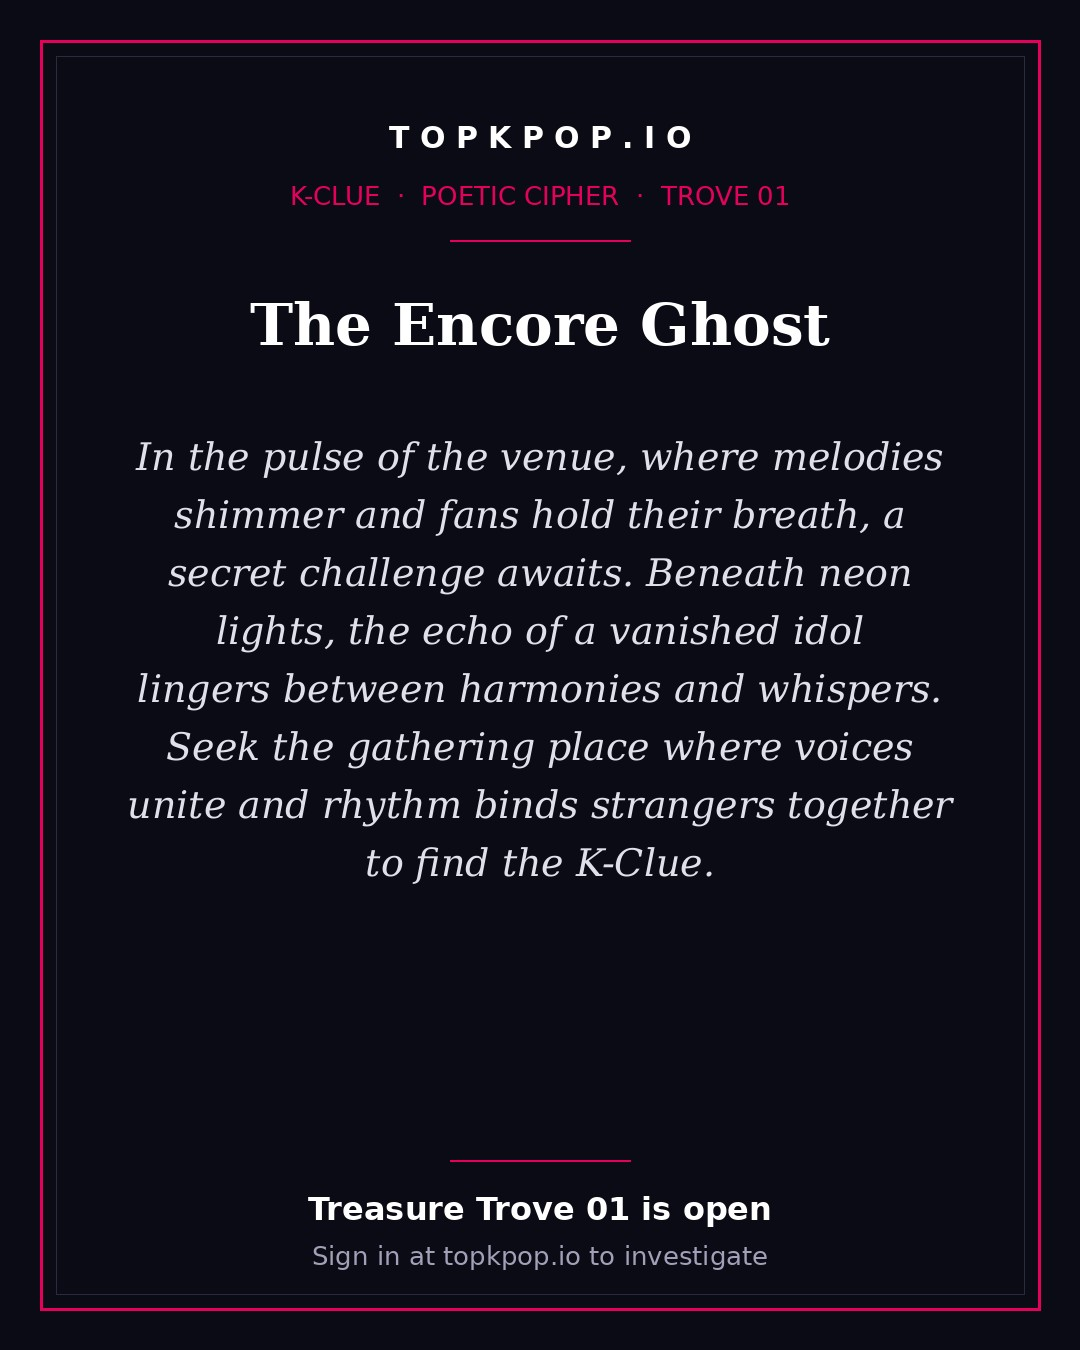
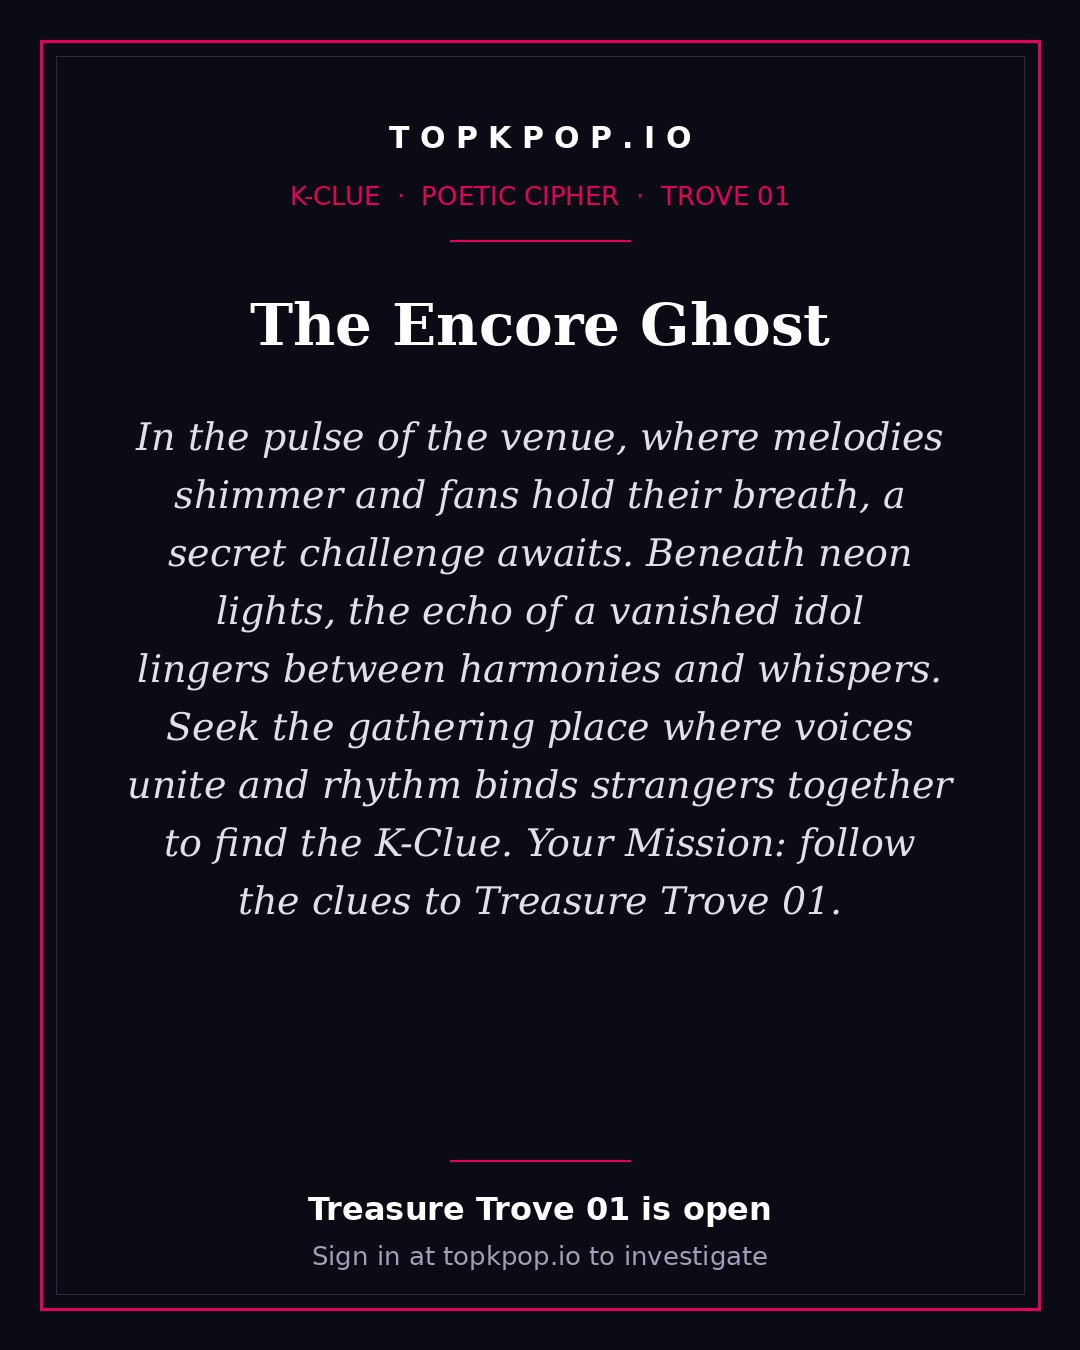
Instagram clue posts: tester fixes (admin page script restored, unlock flag saved before posting, no double posts, truthful by-hand notice, clue cards closed until their Trove opens, token scrubbed, stricter inputs, card 01 matches the page)
Claude-Session: https://claude.ai/code/session_01RZJqaW5LpgZaP57mDXHC8f

Changed region(s): [[0.1222, 0.3111, 0.8861, 0.6844]]

diff --git a/api/instagram.js b/api/instagram.js
@@ -22,18 +22,29 @@ const CLUES = {
   3: { title: 'Where Secret Scorn Smolders', line: 'Someone long dismissed left only a shadow. The final cipher is out.' },
 };
 
+const env = (k) => String(process.env[k] || '').trim();
 function configured() {
-  return !!(process.env.INSTAGRAM_ACCOUNT_ID && process.env.INSTAGRAM_ACCESS_TOKEN);
+  return !PREVIEW_MODE && !!(env('INSTAGRAM_ACCOUNT_ID') && env('INSTAGRAM_ACCESS_TOKEN'));
+}
+/** Take the token out of anything that might be logged, emailed or returned. */
+function scrub(text) {
+  const tok = env('INSTAGRAM_ACCESS_TOKEN');
+  let out = String(text == null ? '' : text).replace(/access_token=[^&\s]+/g, 'access_token=…');
+  if (tok) out = out.split(tok).join('…');
+  return out;
 }
 
 /** What would be posted for a Trove: the media link, whether it is a video, and the caption. */
 function clueFor(trove) {
   const n = Number(trove); const c = CLUES[n]; if (!c) return null;
-  const override = String(process.env[`INSTAGRAM_TROVE${n}_MEDIA`] || '').trim();
-  const media = /^https:\/\/\S+$/i.test(override) ? override : `${SITE}/assets/instagram/trove-0${n}.jpg`;
+  // An override must be a public https link to a .jpg or an .mp4/.mov; anything else is ignored and the card is used.
+  const override = env(`INSTAGRAM_TROVE${n}_MEDIA`);
+  const usable = /^https:\/\/[^\s#]+\.(jpe?g|mp4|mov)(\?[^\s#]*)?$/i.test(override);
+  if (override && !usable) console.warn(`instagram: INSTAGRAM_TROVE${n}_MEDIA is not an https link to a .jpg, .mp4 or .mov, so the clue card is used.`);
+  const media = usable ? override : `${SITE}/assets/instagram/trove-0${n}.jpg`;
   const video = /\.(mp4|mov)(\?|$)/i.test(media);
   const caption = [
-    `K-CLUE · Treasure Trove 0${n} is open.`,
+    firstLine(n),
     `"${c.title}" — ${c.line}`,
     `Every clue is also on the website. Sign in at topkpop.io to investigate.`,
     `#TopKpop #AISuperSleuth #KClue`,
@@ -41,14 +52,16 @@ function clueFor(trove) {
   return { trove: n, media, video, caption };
 }
 
+const firstLine = (n) => `K-CLUE · Treasure Trove 0${n} is open.`;
+
 function address(path) {
-  const host = (process.env.INSTAGRAM_API_HOST || 'graph.instagram.com').replace(/^https?:\/\//, '').replace(/\/+$/, '');
-  const v = (process.env.INSTAGRAM_API_VERSION || '').replace(/^\/+|\/+$/g, '');
+  const host = (env('INSTAGRAM_API_HOST') || 'graph.instagram.com').replace(/^https?:\/\//i, '').replace(/\/+$/, '');
+  const v = env('INSTAGRAM_API_VERSION').replace(/^\/+|\/+$/g, '');
   return `https://${host}/${v ? v + '/' : ''}${path}`;
 }
 
 async function call(method, path, params) {
-  const body = new URLSearchParams({ ...params, access_token: process.env.INSTAGRAM_ACCESS_TOKEN });
+  const body = new URLSearchParams({ ...params, access_token: env('INSTAGRAM_ACCESS_TOKEN') });
   const url = address(path);
   const ctl = new AbortController(); const timer = setTimeout(() => ctl.abort(), 30000);
   try {
@@ -57,19 +70,26 @@ async function call(method, path, params) {
       : await fetch(url, { method: 'POST', body, signal: ctl.signal });
     const data = await res.json().catch(() => ({}));
     if (!res.ok || data.error) {
-      // Never let the token reach a log or an email.
-      const msg = String((data.error && data.error.message) || `Instagram answered ${res.status}`).replace(/access_token=[^&\s]+/g, 'access_token=…');
-      throw new Error(msg);
+      throw new Error(scrub((data.error && data.error.message) || `Instagram answered ${res.status}`));
     }
     return data;
+  } catch (e) {
+    // Never let the token reach a log, an email or a reply, whatever the error was.
+    throw new Error(scrub(e && e.name === 'AbortError' ? 'Instagram did not answer in time' : (e && e.message) || 'Instagram could not be reached'));
   } finally { clearTimeout(timer); }
 }
 
 const wait = (ms) => new Promise((r) => setTimeout(r, ms));
 
+/** Is this Trove's clue already on the account? Looks at the newest posts for the caption's first line. */
+async function alreadyPosted(trove) {
+  const got = await call('GET', `${env('INSTAGRAM_ACCOUNT_ID')}/media`, { fields: 'caption', limit: '25' });
+  return (got.data || []).some((m) => String(m.caption || '').startsWith(firstLine(trove)));
+}
+
 /** Create the post, wait until Instagram has finished reading the media, then publish. Returns the media id. */
 async function publish({ media, video, caption }, { pollMs = 15000, maxPolls = 20 } = {}) {
-  const id = process.env.INSTAGRAM_ACCOUNT_ID;
+  const id = env('INSTAGRAM_ACCOUNT_ID');
   const made = await call('POST', `${id}/media`, video ? { media_type: 'REELS', video_url: media, caption } : { image_url: media, caption });
   if (!made.id) throw new Error('Instagram did not return a post to publish');
   for (let i = 0; i < maxPolls; i++) {
@@ -84,11 +104,15 @@ async function publish({ media, video, caption }, { pollMs = 15000, maxPolls = 2
   return out.id;
 }
 
+// One post per Trove at a time in this process, so two clicks or a click during the job cannot both publish.
+const busy = new Set();
+
 const esc = (s) => String(s == null ? '' : s).replace(/[&<>"']/g, (c) => ({ '&': '&amp;', '<': '&lt;', '>': '&gt;', '"': '&quot;', "'": '&#39;' }[c]));
 
 /**
  * Post a Trove's clue. Never throws: the caller is the unlock job, and a failed post must not stop the emails.
- * notify({ subject, html }) emails the organizer. Returns { posted, by_hand, reason, id }.
+ * notify({ subject, html }) emails the organizer and returns true only if the email was really sent.
+ * Returns { posted, already, by_hand, reason, id }.
  */
 async function postClue(trove, { notify, opts } = {}) {
   const clue = clueFor(trove);
@@ -97,28 +121,34 @@ async function postClue(trove, { notify, opts } = {}) {
   const tell = async (why) => {
     if (!notify) return false;
     try {
-      await notify({
+      return (await notify({
         subject: `Post by hand: Trove 0${clue.trove} clue for Instagram`,
         html: `<p>Trove 0${clue.trove} is open. ${esc(why)}</p>
 <p><strong>${clue.video ? 'Video' : 'Picture'}:</strong> <a href="${esc(clue.media)}">${esc(clue.media)}</a></p>
-<p><strong>Caption:</strong></p><pre style="white-space:pre-wrap;font-family:inherit">${esc(clue.caption)}</pre>`,
-      });
-      return true;
+<p><strong>Caption:</strong></p><pre style="white-space:pre-wrap;font-family:inherit">${esc(clue.caption)}</pre>
+<p>If it is already on @topkpopio, there is nothing to do.</p>`,
+      })) === true;
     } catch (e) { console.error('instagram notify error:', e.message); return false; }
   };
   if (!configured()) {
     const by_hand = await tell('Instagram is not connected to the site yet, so this one is yours to post.');
     return { posted: false, by_hand, reason: 'Instagram is not connected yet' };
   }
+  if (busy.has(clue.trove)) return { posted: false, reason: 'this clue is being posted right now' };
+  busy.add(clue.trove);
   try {
+    if (await alreadyPosted(clue.trove)) return { posted: true, already: true };
     const id = await publish(clue, opts);
     console.log(`Instagram: Trove ${clue.trove} clue posted (${id}).`);
     return { posted: true, id };
   } catch (e) {
-    console.error(`Instagram: Trove ${clue.trove} clue failed:`, e.message);
-    const by_hand = await tell(`The site tried to post this to Instagram and it did not go through (${e.message}).`);
-    return { posted: false, by_hand, reason: e.message };
-  }
+    const why = scrub(e.message);
+    // A lost reply does not mean a lost post: look once more before asking anyone to post by hand.
+    try { if (await alreadyPosted(clue.trove)) return { posted: true, already: true }; } catch (_) { /* fall through to the notice */ }
+    console.error(`Instagram: Trove ${clue.trove} clue failed:`, why);
+    const by_hand = await tell(`The site tried to post this to Instagram and it did not go through (${why}). Please check @topkpopio first in case it did arrive.`);
+    return { posted: false, by_hand, reason: why };
+  } finally { busy.delete(clue.trove); }
 }
 
-module.exports = { configured, clueFor, postClue, _internal: { publish, address } };
+module.exports = { configured, clueFor, postClue, _internal: { publish, address, alreadyPosted, scrub } };

diff --git a/api/routes.js b/api/routes.js
@@ -1431,8 +1431,10 @@ async function sendWeeklyScoreSummary() {
 const instagram = require('./instagram');
 async function instagramNotify({ subject, html }) {
   const to = process.env.EVALROOM_ORGANIZER_EMAIL || process.env.ADMIN_EMAIL;
-  if (!to) return;
-  await resend.emails.send({ from: 'TopKpop.io System <anna@topkpop.io>', to, subject, html });
+  if (!to) { console.error('instagram: no organizer email is set, so the post-by-hand notice was not sent'); return false; }
+  const out = await resend.emails.send({ from: 'TopKpop.io System <anna@topkpop.io>', to, subject, html });
+  if (out && out.error) { console.error('instagram: the post-by-hand notice was not sent:', out.error.message || out.error); return false; }
+  return true;
 }
 
 // Admin: is Instagram connected, and what would be posted for each Trove. Never returns the token.
@@ -1441,10 +1443,11 @@ router.get('/admin/instagram', adminAuth, (req, res) => {
 });
 // Admin: post one Trove's clue now (for a test, or to redo one that failed).
 router.post('/admin/instagram/post-clue', adminAuth, async (req, res) => {
-  const n = Number(req.body && req.body.trove);
+  const n = req.body && req.body.trove;
   if (![1, 2, 3].includes(n)) return res.status(400).json({ error: 'Choose Trove 1, 2 or 3.' });
   if (!instagram.configured()) return res.status(409).json({ error: 'Instagram is not connected yet. Nothing was posted.' });
   const out = await instagram.postClue(n, { notify: null });
+  if (out.already) return res.json({ ok: true, already: true });
   if (!out.posted) return res.status(502).json({ error: `Instagram did not accept the post: ${out.reason}` });
   res.json({ ok: true, id: out.id });
 });
@@ -1468,22 +1471,25 @@ function startScheduler() {
       // Trove 1 — Day 1 (game start)
       if (settings.game_start_date && settings.game_start_date <= nowISO && !settings.trove1_email_sent) {
         await sendTroveUnlockEmail(1);
-        await instagram.postClue(1, { notify: instagramNotify });
         await supabase.from('game_settings').update({ trove1_email_sent: true }).eq('id', 1);
+        // After the flag is saved and not waited on: a slow or failed post can never re-send the emails or hold up this job.
+        instagram.postClue(1, { notify: instagramNotify }).catch((e) => console.error('instagram post error:', e.message));
         console.log('Trove 1 unlock email sent.');
       }
       // Trove 2 — Day 8 Sunday 7pm
       if (settings.trove2_unlock && settings.trove2_unlock <= nowISO && !settings.trove2_email_sent) {
         await sendTroveUnlockEmail(2);
-        await instagram.postClue(2, { notify: instagramNotify });
         await supabase.from('game_settings').update({ trove2_email_sent: true }).eq('id', 1);
+        // After the flag is saved and not waited on: a slow or failed post can never re-send the emails or hold up this job.
+        instagram.postClue(2, { notify: instagramNotify }).catch((e) => console.error('instagram post error:', e.message));
         console.log('Trove 2 unlock email sent.');
       }
       // Trove 3 — Day 15 Sunday 7pm
       if (settings.trove3_unlock && settings.trove3_unlock <= nowISO && !settings.trove3_email_sent) {
         await sendTroveUnlockEmail(3);
-        await instagram.postClue(3, { notify: instagramNotify });
         await supabase.from('game_settings').update({ trove3_email_sent: true }).eq('id', 1);
+        // After the flag is saved and not waited on: a slow or failed post can never re-send the emails or hold up this job.
+        instagram.postClue(3, { notify: instagramNotify }).catch((e) => console.error('instagram post error:', e.message));
         console.log('Trove 3 unlock email sent.');
       }
       // Guess the Saboteur — Day 22 Sunday 7pm

diff --git a/pages/admin/index.html b/pages/admin/index.html
@@ -339,7 +339,7 @@
         <span class="panel-badge" id="ig-status" style="background:rgba(176,106,255,0.1); border-color:rgba(176,106,255,0.3); color:#b06aff;">Checking</span>
       </div>
       <div class="panel-body">
-        <p style="font-size:0.92rem; line-height:1.65; color:rgba(224,224,224,0.8); margin-bottom:12px;">When a Trove opens, its clue is posted to @topkpopio. Until Instagram is connected, or if a post fails, you get an email with the picture and caption to post by hand.</p>
+        <p style="font-size:0.92rem; line-height:1.65; color:rgba(224,224,224,0.8); margin-bottom:12px;">When a Trove opens, its clue is posted to @topkpopio. Until Instagram is connected, or if a post fails, you get an email with the picture and caption to post by hand. A clue that is already on the account is never posted twice. A card can only be viewed once its Trove is open.</p>
         <div id="ig-clues"></div>
         <div id="ig-result" style="margin-top:10px; font-size:0.9rem;"></div>
       </div>
@@ -649,7 +649,7 @@ document.addEventListener('DOMContentLoaded', function() {
 });
 
 async function loadDashboard() {
-  loadInstagram();
+  try { loadInstagram(); } catch (e) { /* the Instagram panel is optional */ }
   try {
     // Load game settings
     const settingsRes = await fetch('/api/admin/settings', { headers: { password: ADMIN_PASS } });
@@ -1169,8 +1169,7 @@ async function startNewGameInstance() {
     resultDiv.innerHTML = '&#10007; Network error: ' + err.message;
   }
 }
-</script>
-<script src="/js/nav.js">
+
 // Instagram clue posts
 async function loadInstagram() {
   try {
@@ -1190,16 +1189,17 @@ async function loadInstagram() {
 }
 async function postInstagramClue(trove, btn) {
   const out = document.getElementById('ig-result');
-  if (!window.confirm('Post the Trove 0' + trove + ' clue to @topkpopio now? It will be public.')) return;
+  if (!window.confirm('Post the Trove 0' + trove + ' clue to @topkpopio now? Everyone who can see that account will see it.')) return;
   btn.disabled = true; out.style.color = ''; out.textContent = 'Posting. This can take a minute.';
   try {
     const r = await fetch('/api/admin/instagram/post-clue', { method: 'POST', headers: { 'Content-Type': 'application/json', password: ADMIN_PASS }, body: JSON.stringify({ trove }) });
     const d = await r.json().catch(() => ({}));
     if (!r.ok) throw new Error(d.error || 'The post did not go through.');
-    out.style.color = '#00B464'; out.textContent = 'Posted the Trove 0' + trove + ' clue to Instagram.';
+    out.style.color = '#00B464'; out.textContent = d.already ? 'The Trove 0' + trove + ' clue is already on Instagram. Nothing new was posted.' : 'Posted the Trove 0' + trove + ' clue to Instagram.';
   } catch (e) { out.style.color = '#ff6b6b'; out.textContent = e.message; }
   btn.disabled = false;
 }
 </script>
+<script src="/js/nav.js"></script>
 </body>
 </html>

diff --git a/server.js b/server.js
@@ -46,6 +46,19 @@ app.use('/api/jeannie', jeannieRouter);
 // ── Static assets ────────────────────────────────────────────────────────────
 app.use('/css',    express.static(path.join(__dirname, 'public/css')));
 app.use('/js',     express.static(path.join(__dirname, 'public/js')));
+// A Trove's Instagram clue card carries its cipher, so it stays closed until that Trove opens.
+app.use('/assets/instagram', async (req, res, next) => {
+  let p;
+  try { p = path.posix.normalize(decodeURIComponent(req.path)).toLowerCase().replace(/\/+/g, '/'); } catch (e) { return res.status(404).end(); }
+  const m = /^\/trove-0([123])\.jpg$/.exec(p);
+  if (!m) return res.status(404).end();
+  try {
+    const s = (await troveSchedule.get())[m[1]];
+    if (s && !s.open) { res.set('Cache-Control', 'no-store'); return res.status(404).end(); }
+  } catch (e) { /* no schedule read: same rule as the Trove pages, which stay open */ }
+  res.set('Cache-Control', 'no-store');
+  next();
+});
 app.use('/assets', express.static(path.join(__dirname, 'public/assets')));
 
 // ── Inner pages ──────────────────────────────────────────────────────────────
